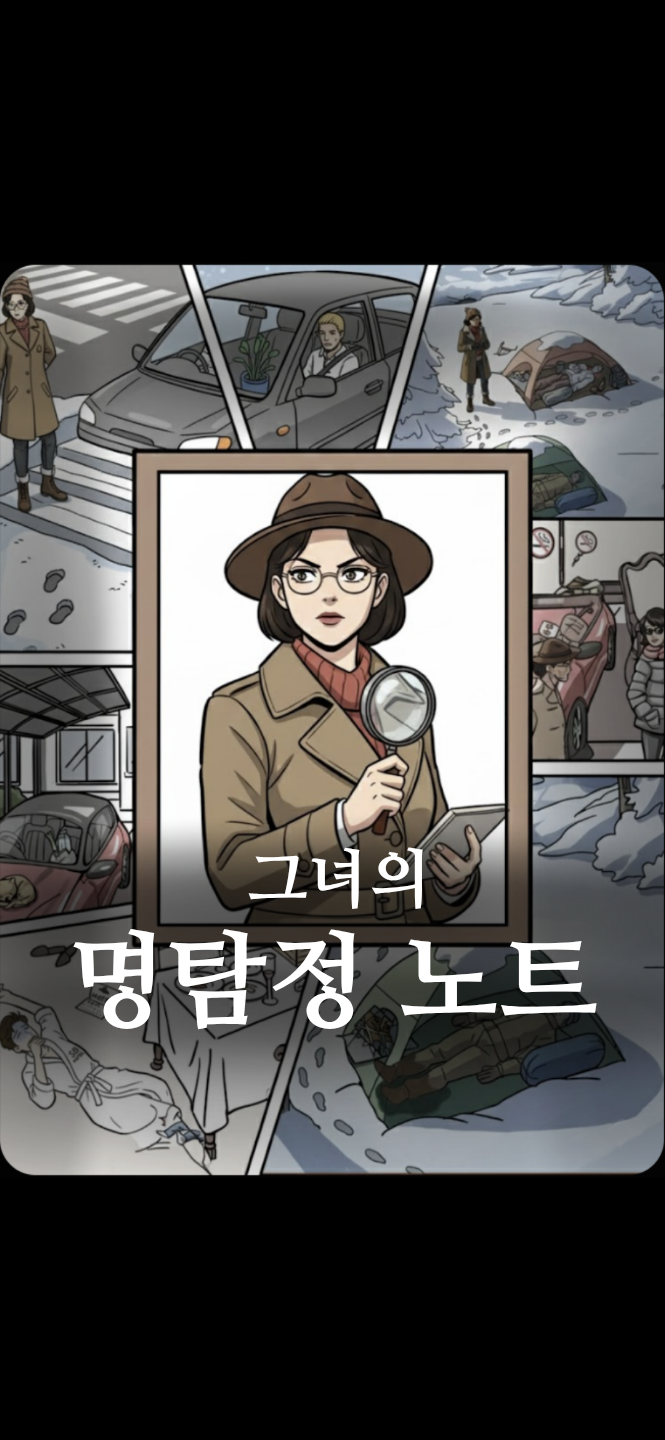
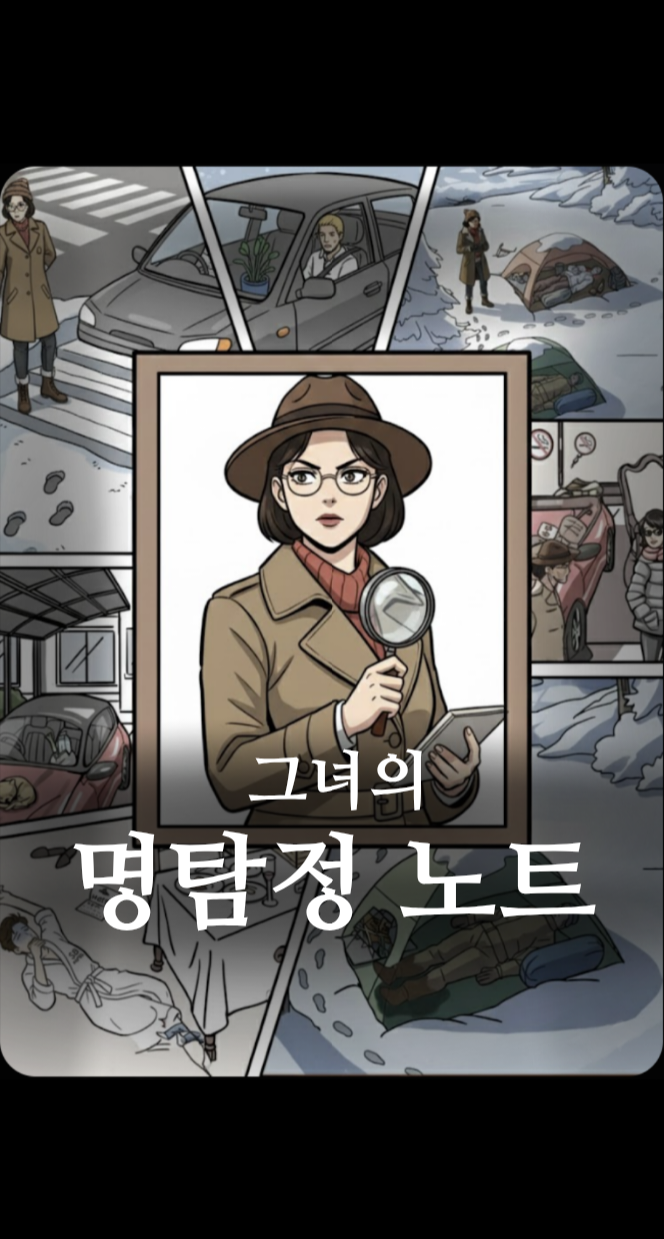
대표 이미지 배경

diff --git a/src/styles/components.module.css b/src/styles/components.module.css
@@ -243,9 +243,11 @@
   display: flex;
   flex-direction: column;
   height: 100vh;
-  background: linear-gradient(to bottom, #111827, #1f2937, #111827);
+  background: #000000; /* 검은색으로 통일 */
   position: relative;
-  align-items: center; /* 자식 요소들을 중앙 정렬 */
+  max-width: 664px; /* 모든 화면에서 최대 너비 고정 */
+  margin: 0 auto; /* 중앙 정렬 */
+  width: 100%; /* 작은 화면에서는 전체 너비 사용 */
 }
 
 .startImageSection {
@@ -253,7 +255,8 @@
   overflow: hidden;
   width: 100%;
   height: calc(100vh - 120px);
-  max-width: 428px;
+  background: #000000; /* 이미지 뒤 배경을 검은색으로 명시 */
+  /* 작은 화면에서는 전체 너비 사용 */
   max-height: calc(100vh - 120px);
 }
 
@@ -263,7 +266,7 @@
 }
 
 .startImage {
-  object-fit: cover;
+  object-fit: contain;
   object-position: center;
   opacity: 0.9;
 }
@@ -271,7 +274,7 @@
 .startGradientOverlay {
   position: absolute;
   inset: 0;
-  background: linear-gradient(to top, #111827, transparent, transparent);
+  background: linear-gradient(to top, #000000, transparent, transparent); /* 검은색으로 변경 */
 }
 
 .startTitleSection {
@@ -302,7 +305,7 @@
   background: #111827;
   border-top: 1px solid #374151;
   width: 100%;
-  max-width: 428px;
+  /* 작은 화면에서는 전체 너비 사용 */
 }
 
 .startButton {
@@ -360,6 +363,7 @@
 
 /* 반응형 */
 @media (min-width: 768px) {
+  /* 큰 화면에서도 동일한 최대 너비 유지 (이미 .startScreen에 설정됨) */
   .startTitle {
     font-size: 2.25rem;
   }
